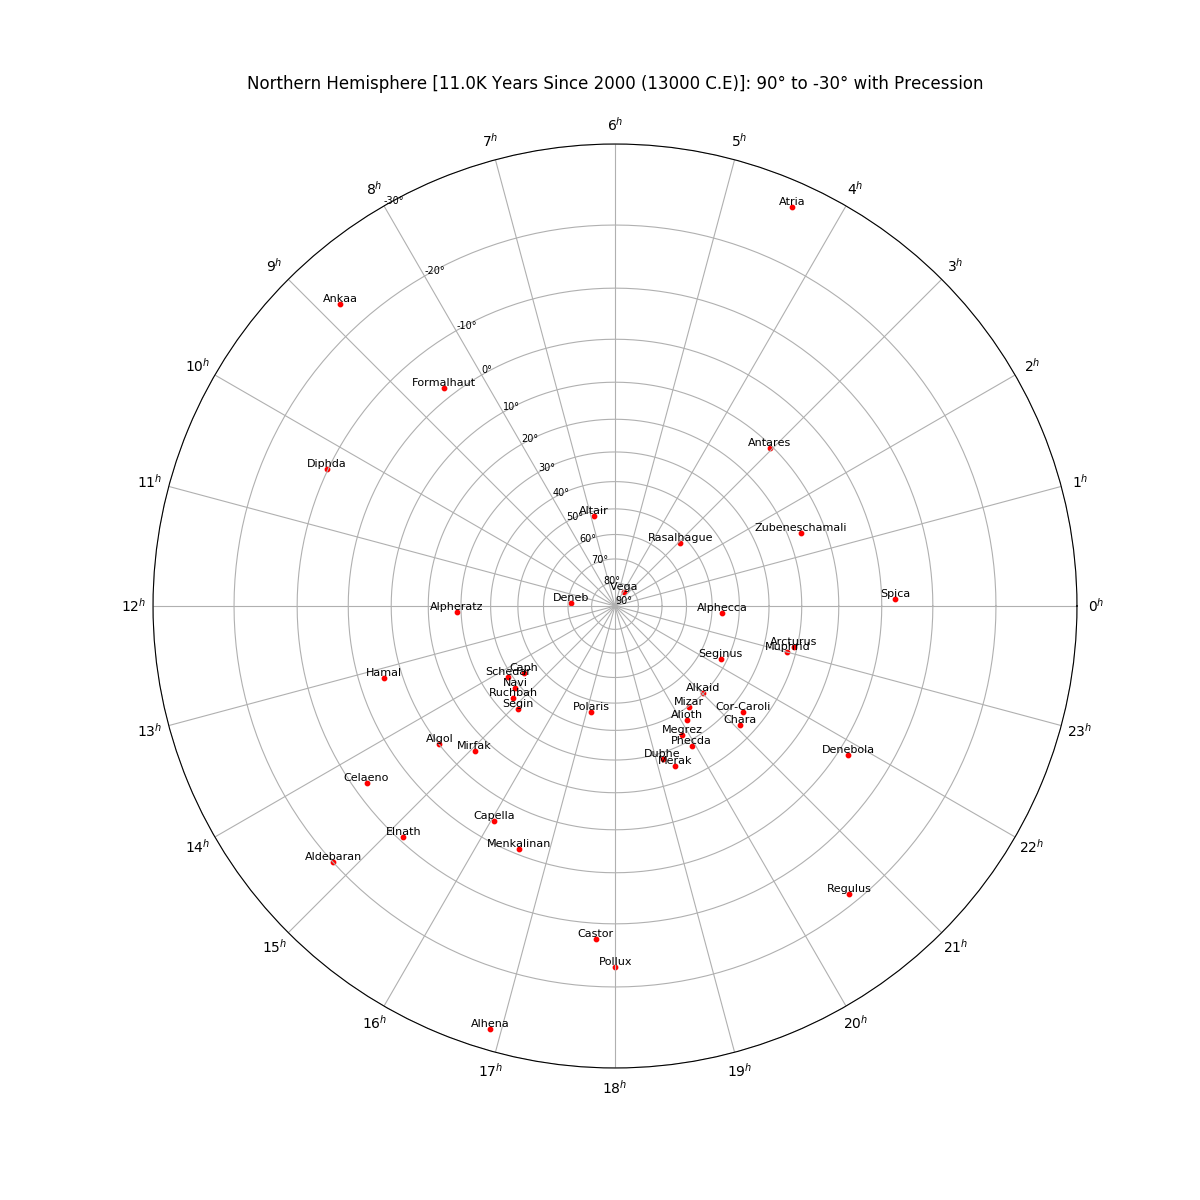
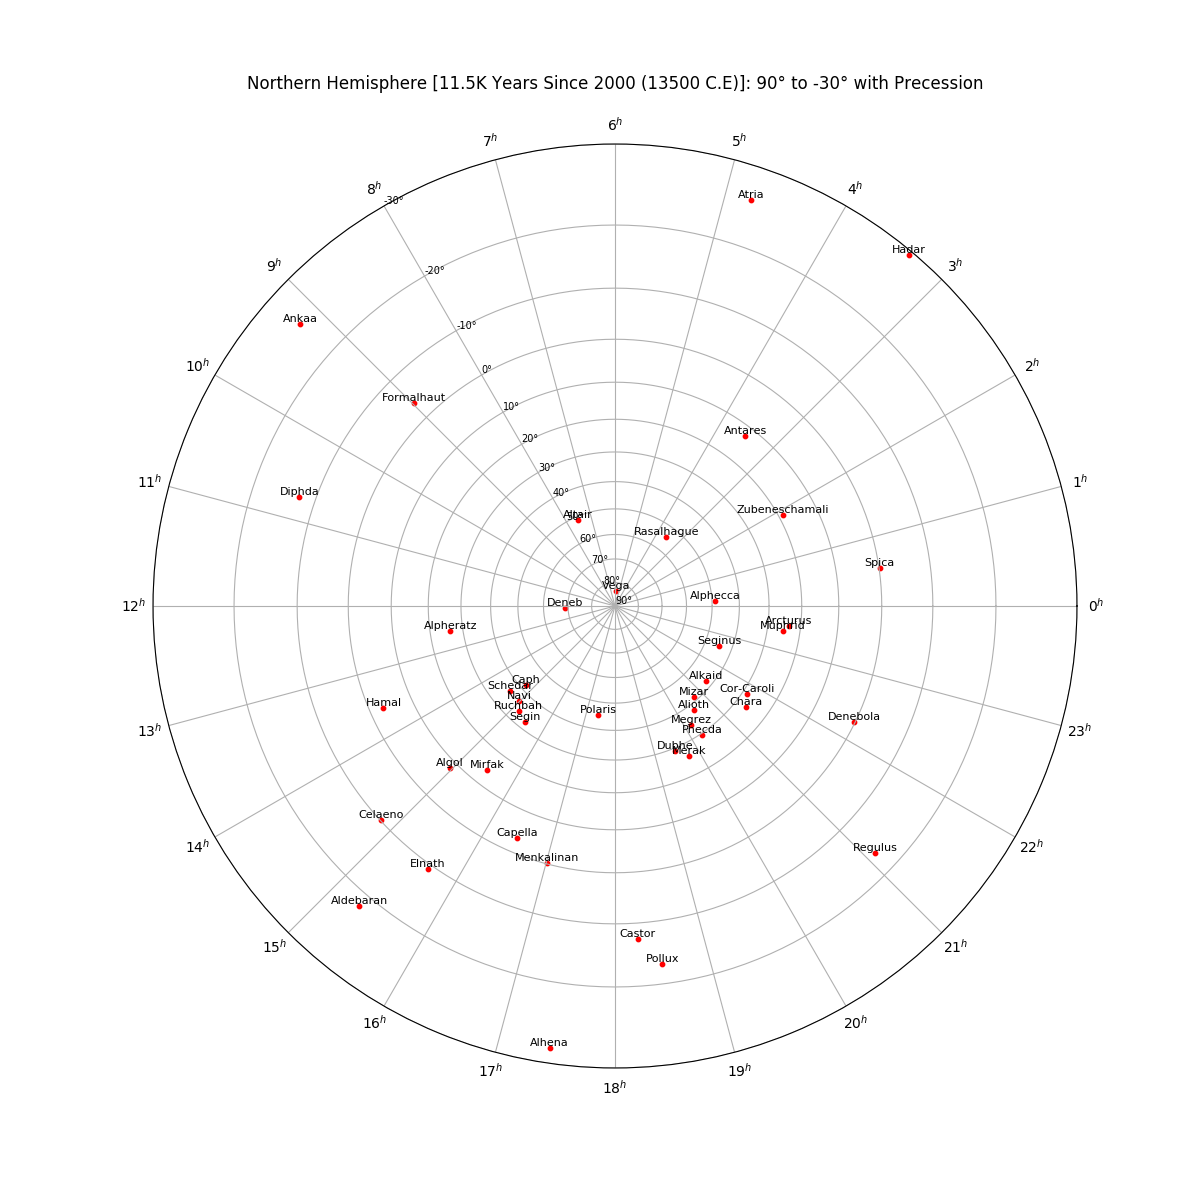
BCE for years -2000 years before 2000

diff --git a/generate_examples_star_chart.py b/generate_examples_star_chart.py
@@ -6,13 +6,13 @@ if __name__ == '__main__':
 	## Northern Hemisphere: Without and With Precession
 	star_chart_spherical_projection.plotStereographicProjection(northOrSouth="North",
 																displayStarNamesLabels=True,
-																yearSince2000=11000,
+																yearSince2000=11500,
 																isPrecessionIncluded=False,
 																fig_plot_color="red",
 																save_plot_name="examples/north_with_labels_without_precession")
 	star_chart_spherical_projection.plotStereographicProjection(northOrSouth="North", 
 																displayStarNamesLabels=True,
-																yearSince2000=11000,
+																yearSince2000=11500,
 																isPrecessionIncluded=True,
 																fig_plot_color="red",
 																save_plot_name="examples/north_with_labels_with_precession")

diff --git a/build/lib/star_chart_spherical_projection/generate_star_chart.py b/build/lib/star_chart_spherical_projection/generate_star_chart.py
@@ -366,8 +366,8 @@ def plotStereographicProjection(userListOfStars=[],
 	if abs(years_for_title) > 1000000:
 		years_for_title = years_for_title / 1000000
 		suffix = "M"
-	if yearSince2000 >= 0: year_bce_ce = "{0} C.E".format(yearSince2000 + 2000) # postive years for C.E
-	if yearSince2000 < 0: year_bce_ce = "{0} B.C.E".format(abs(yearSince2000 + 2000)) # negative years for B.C.E
+	if yearSince2000 >= -2000: year_bce_ce = "{0} C.E".format(yearSince2000 + 2000) # postive years for C.E
+	if yearSince2000 < -2000: year_bce_ce = "{0} B.C.E".format(abs(yearSince2000 + 2000)) # negative years for B.C.E
 	figure_has_precession_extra_string = "with Precession" if isPrecessionIncluded else "without Precession"
 
 	if fig_plot_title is None: # by default sets title of plot

diff --git a/star_chart_spherical_projection/generate_star_chart.py b/star_chart_spherical_projection/generate_star_chart.py
@@ -366,8 +366,8 @@ def plotStereographicProjection(userListOfStars=[],
 	if abs(years_for_title) > 1000000:
 		years_for_title = years_for_title / 1000000
 		suffix = "M"
-	if yearSince2000 >= 0: year_bce_ce = "{0} C.E".format(yearSince2000 + 2000) # postive years for C.E
-	if yearSince2000 < 0: year_bce_ce = "{0} B.C.E".format(abs(yearSince2000 + 2000)) # negative years for B.C.E
+	if yearSince2000 >= -2000: year_bce_ce = "{0} C.E".format(yearSince2000 + 2000) # postive years for C.E
+	if yearSince2000 < -2000: year_bce_ce = "{0} B.C.E".format(abs(yearSince2000 + 2000)) # negative years for B.C.E
 	figure_has_precession_extra_string = "with Precession" if isPrecessionIncluded else "without Precession"
 
 	if fig_plot_title is None: # by default sets title of plot

diff --git a/setup.py b/setup.py
@@ -3,7 +3,7 @@
 # Python Package Setup
 from setuptools import setup, find_namespace_packages
 
-VERSION="1.2.3"
+VERSION="1.2.4"
 DESCRIPTION="A Python package to generate an astronomy star chart based on spherical projection that corrects for distortions with stereographic projection"
 
 with open("README.md", "r") as f:
